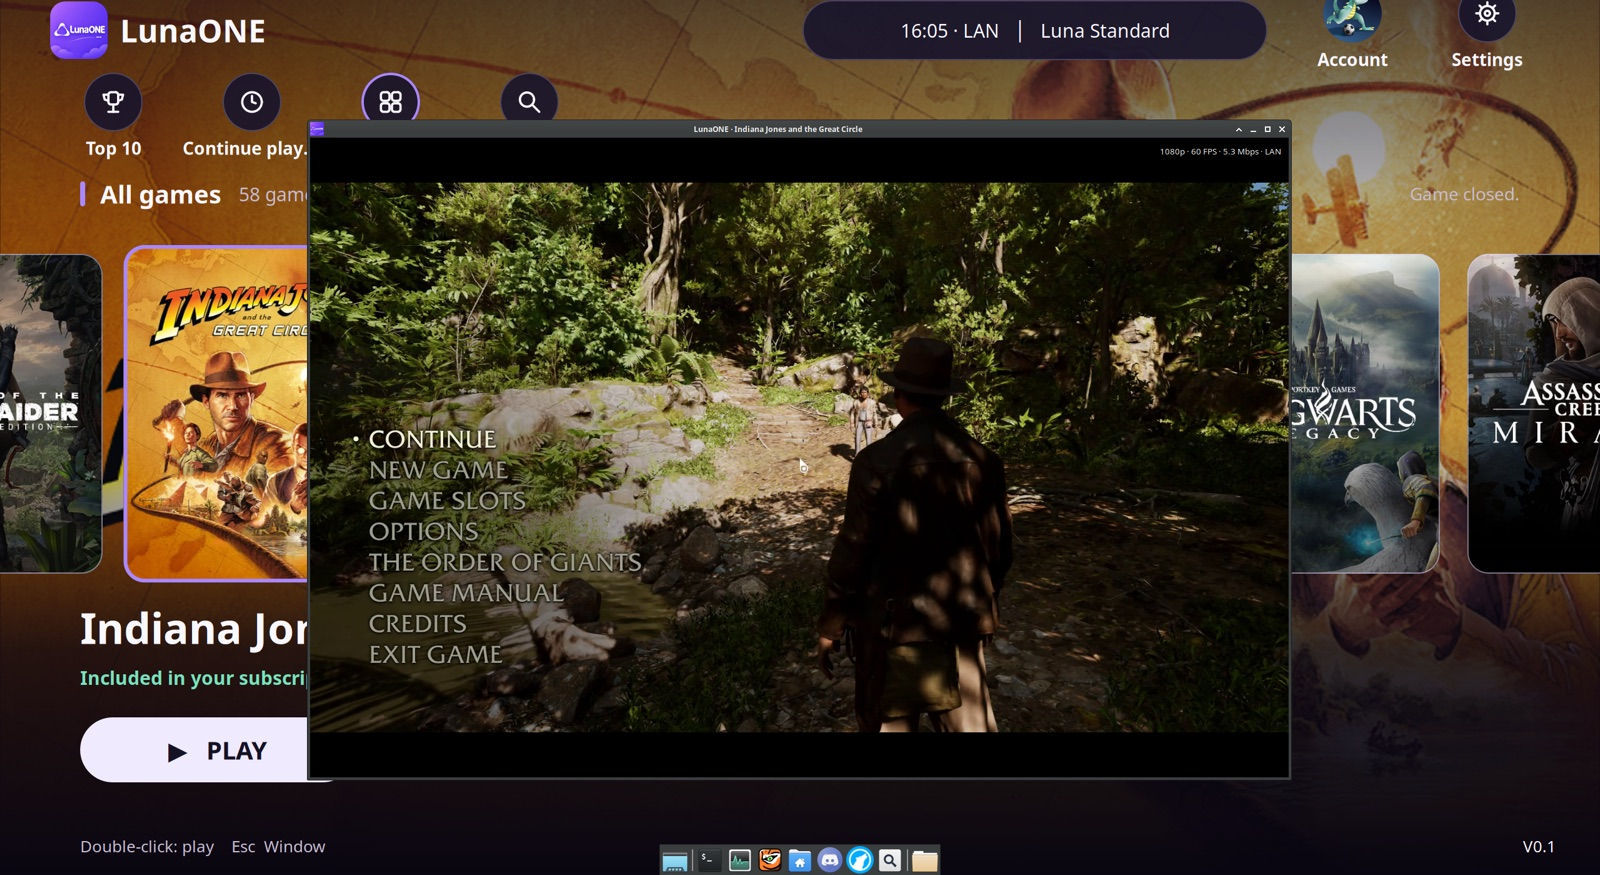
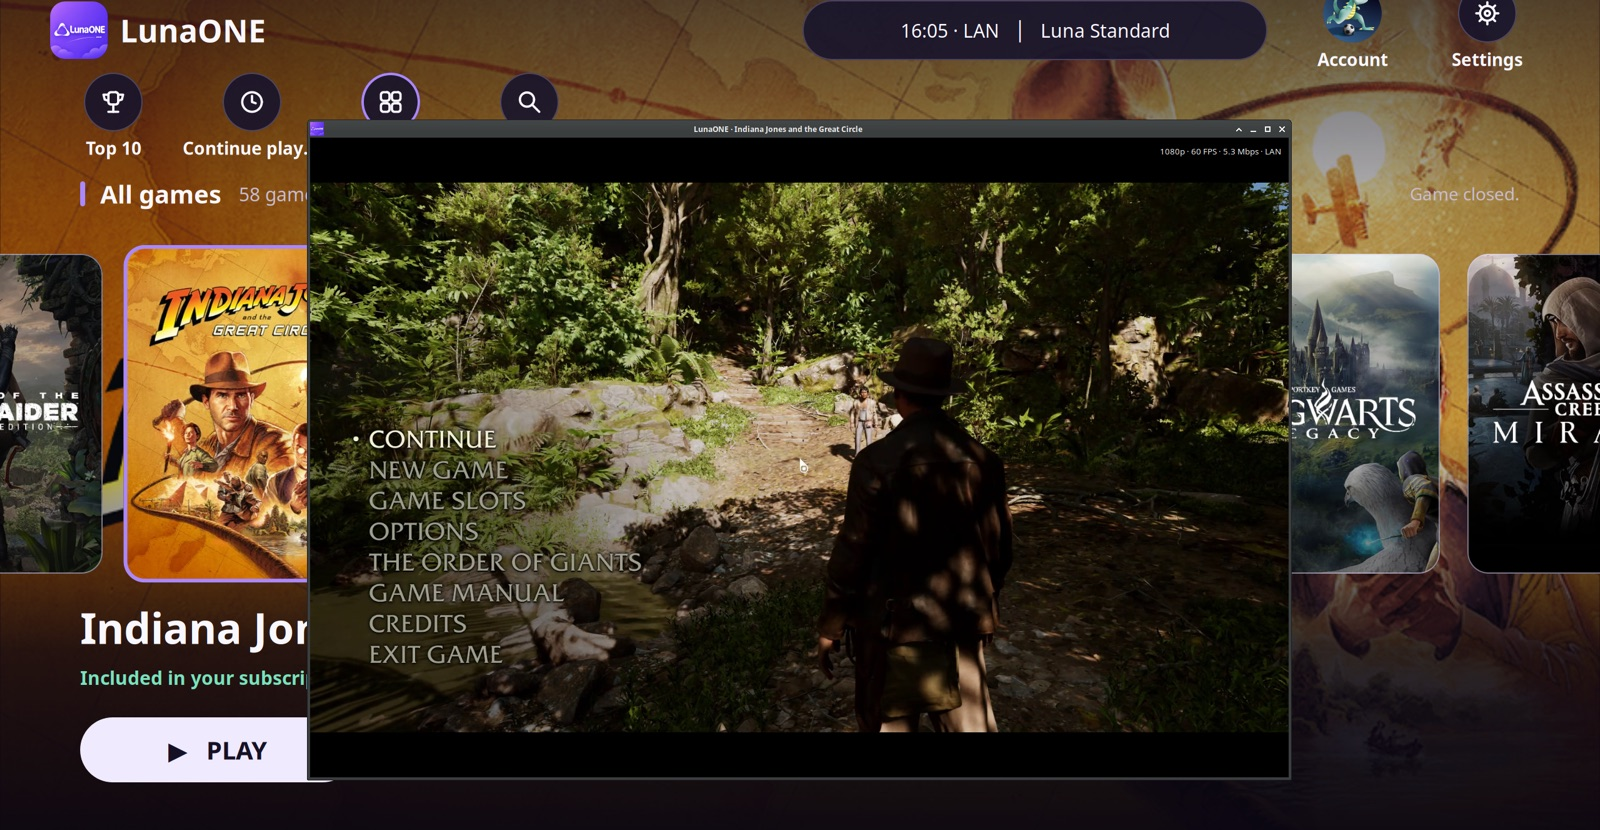
LunaONE V0.2: README without website link, screenshot without desktop dock
- Remove the GitHub Pages files and the README's website link: the
  project has no website.
- Crop the FreeBSD screenshot to the LunaONE window, without the
  tester's desktop dock.

diff --git a/README.md b/README.md
@@ -22,8 +22,6 @@
 
 Get **[LunaONE V0.2](https://github.com/kazar-root/LunaONE/releases/latest)** for macOS, Windows, Linux, FreeBSD, Android and Google TV, and iPhone and iPad. The release page explains how to install each version.
 
-Website: **[kazar-root.github.io/LunaONE](https://kazar-root.github.io/LunaONE/)**
-
 ## What is LunaONE?
 
 LunaONE lets you play your Amazon Luna games in a native app instead of a web browser. It is built for the couch: pick up a controller, browse the catalog, press A and play. The same app runs on your Mac, your PC, your Linux or FreeBSD machine, your iPad, your Android phone and your Google TV.
